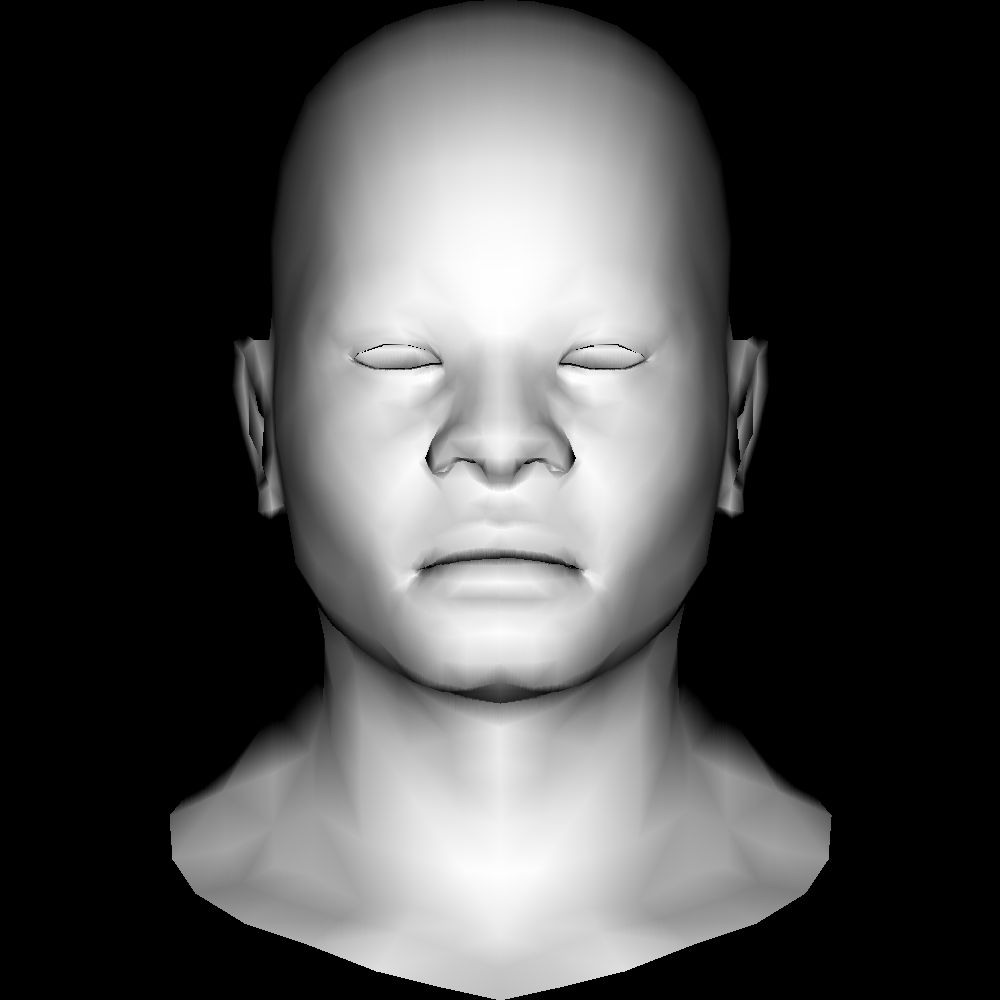
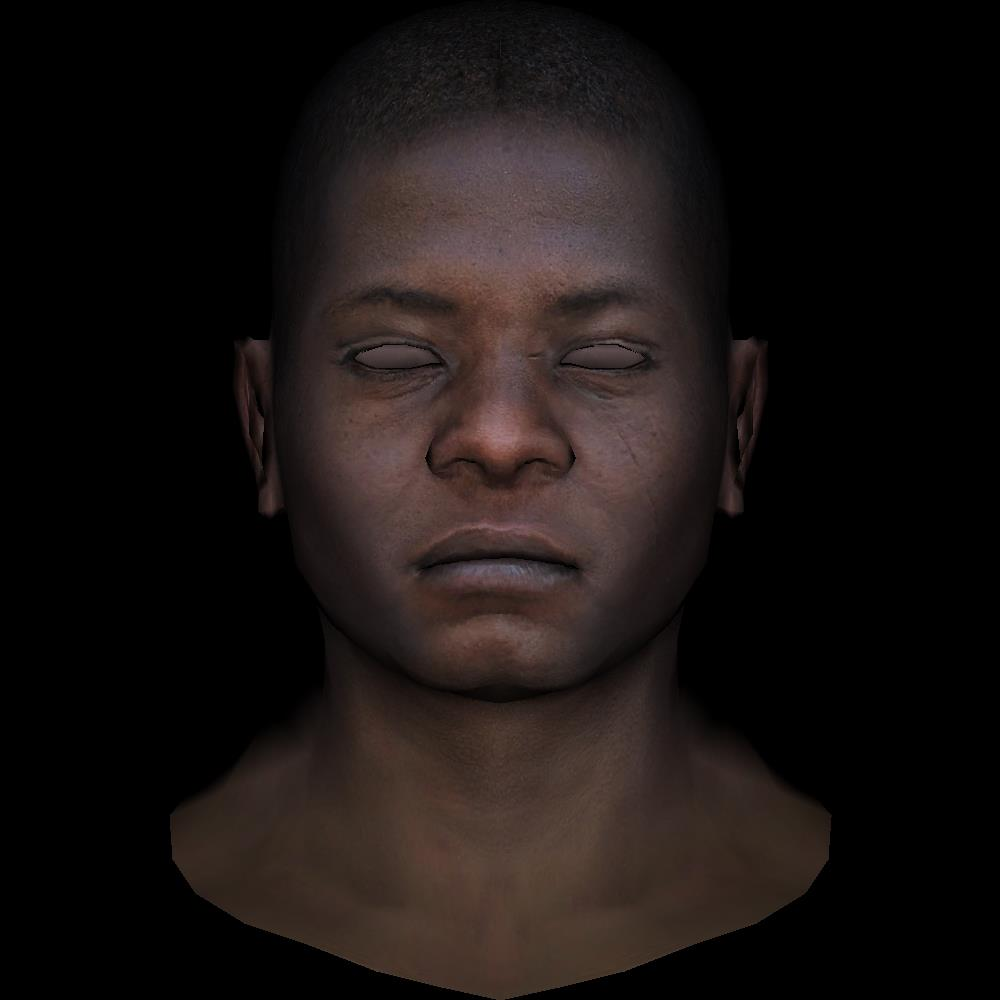
added textures

diff --git a/main.cpp b/main.cpp
@@ -1,4 +1,4 @@
-#include "tgaimage.h"
+
 #include "parser.hpp"
 
 
@@ -9,8 +9,8 @@
 
 float get_inten(d3<int> p, d3<int> p1, d3<int> p2, float inten_1, float inten_2);
 void line(int x0, int y0, int x1, int y1, TGAImage &image, TGAColor color);
-void color_triangle(d3<int> p0, d3<int> p1, d3<int> p2, TGAImage &image, float inten_0, float inten_1, float inten_2, mtrx2d<int> & z_buffer);
-void color_triangle_s(d3<int> p0, d3<int> p1, d3<int> p2, TGAImage &image, float inten_0, float inten_1,float inten_2, mtrx2d<int> & z_buffer);
+void color_triangle(d3<int> p0, d3<int> p1, d3<int> p2, TGAImage &image, float inten_0, float inten_1, float inten_2, mtrx2d<int> & z_buffer, d3<float> te0, d3<float> te1, d3<float> te2, TGAImage &text);
+void color_triangle_s(d3<int> p0, d3<int> p1, d3<int> p2, TGAImage &image, float inten_0, float inten_1,float inten_2, mtrx2d<int> & z_buffer, d3<float> te0, d3<float> te1, d3<float> te2, TGAImage &text);
 float sqrt3(int x, int y, int z);
 int round(float a);
 
@@ -25,13 +25,17 @@ const TGAColor blue   = TGAColor(0, 0,   255,   255);
 int main(int argc, char** argv) {
 	vector<d3<float> > real_coords;
 	vector<d3<float> > norm;
+	vector<d3<float> > text;
 	TGAImage image(width, height, TGAImage::RGB);
+	TGAImage text_file;
 	std::vector<d3<int> >  triangles;
 	std::vector<d3<int> >  norm_triangles;
+	std::vector<d3<int> >  text_triangles;
 
 	mtrx2d<int> z_buffer(width,height,std::numeric_limits<int>::min());
 
-	parser(real_coords, triangles, norm, norm_triangles);
+
+	parser(real_coords, triangles, norm, norm_triangles, text, text_triangles, text_file);
 
 
     vecd3<float> light_vec = vecd3<float>((float)(0.),(float)(0.),(float)(-1.));
@@ -44,6 +48,10 @@ int main(int argc, char** argv) {
 		d3<float> n_0=norm[norm_triangles[i].x-1];
 		d3<float> n_1=norm[norm_triangles[i].y-1];
 		d3<float> n_2=norm[norm_triangles[i].z-1];
+
+		d3<float> te_0=text[text_triangles[i].x-1];
+		d3<float> te_1=text[text_triangles[i].y-1];
+		d3<float> te_2=text[text_triangles[i].z-1];
 
 		vecd3<float> norm_vec = (vecd3<float>(tr_2,tr_0))^(vecd3<float>(tr_1,tr_0));
 
@@ -67,12 +75,11 @@ int main(int argc, char** argv) {
 
 
 	    if (cos_alf>0){
-	    	printf("%f %f %f\n", cos_0, cos_1, cos_2);
 	     int color_code = (int)(((cos_alf))*255);
 	     d3<int> p0(round(width*(tr_0.x+1.)/2.),round(height*(tr_0.y+1.)/2.), round(zeight*(tr_0.z+1.)/2.));
 	     d3<int> p1(round(width*(tr_1.x+1.)/2.),round(height*(tr_1.y+1.)/2.), round(zeight*(tr_1.z+1.)/2.));
 	     d3<int> p2(round(width*(tr_2.x+1.)/2.),round(height*(tr_2.y+1.)/2.), round(zeight*(tr_2.z+1.)/2.));
-		color_triangle(p0,p1,p2, image,-cos_0, -cos_1, -cos_2, z_buffer);
+		color_triangle(p0,p1,p2, image,-cos_0, -cos_1, -cos_2, z_buffer,te_0,te_1,te_2,text_file);
 	}
 	   //  color_triangle(width*(tr_0.x+1.)/2., height*(tr_0.y+1.)/2., width*(tr_1.x+1.)/2., height*(tr_1.y+1.)/2., width*(tr_2.x+1.)/2., height*(tr_2.y+1.)/2., image, TGAColor(rand()%255,rand()%255, rand()%255, 255));
 
@@ -126,7 +133,7 @@ void line(int x0, int y0, int x1, int y1, TGAImage &image, TGAColor color) {
     }
 }
 
-void color_triangle(d3<int> p0, d3<int> p1, d3<int> p2, TGAImage &image, float inten_0, float inten_1, float inten_2, mtrx2d<int> & z_buffer){
+void color_triangle(d3<int> p0, d3<int> p1, d3<int> p2, TGAImage &image, float inten_0, float inten_1, float inten_2, mtrx2d<int> & z_buffer, d3<float> te0, d3<float> te1, d3<float> te2, TGAImage &text){
 
 
 
@@ -153,22 +160,26 @@ int l_border=min(min(p0.x,p1.x),p2.x);
 if (l_border==p0.x) {
 std::swap(p0, p1);
 std::swap(inten_0, inten_1);
+std::swap(te0, te1);
 }
 
 if (l_border==p2.x) {
 std::swap(p1, p2);
 std::swap(inten_1, inten_2);
+std::swap(te1, te2);
 }
 
 
 if (r_border==p0.x) {
 std::swap(p0, p2);
 std::swap(inten_0, inten_2);
+std::swap(te0, te2);
 }
 
 if (r_border==p1.x) {
 std::swap(p1, p2);
 std::swap(inten_1, inten_2);
+std::swap(te1, te2);
 }
 
 if (p0.x==p1.x && p0.x==p2.x) return;
@@ -187,8 +198,14 @@ int cross_coord_y=(int)((x0-x1)*(float)(y2-y1)/(float)(x2-x1)+y1);
 int cross_coord_z=(int)((x0-x1)*(float)(z2-z1)/(float)(x2-x1)+z1);
 d3<int> cross_p(x0,cross_coord_y,cross_coord_z);
 float inten_cross =get_inten(cross_p, p1, p2, inten_1, inten_2);
-color_triangle_s(p0,cross_p, p2, image, inten_0,inten_cross,inten_2, z_buffer);
-color_triangle_s(p0, cross_p, p1, image, inten_0,inten_cross,inten_1, z_buffer);
+d3<float> text_cross;
+text_cross.x=get_inten(cross_p, p1, p2, te1.x, te2.x);
+text_cross.y=get_inten(cross_p, p1, p2, te1.y, te2.y);
+
+
+
+color_triangle_s(p0,cross_p, p2, image, inten_0,inten_cross,inten_2, z_buffer, te0, text_cross, te2,text);
+color_triangle_s(p0, cross_p, p1, image, inten_0,inten_cross,inten_1, z_buffer, te0, text_cross, te1,text);
 /*if (u_border==y0){
 std::swap(x0, x2);
 std::swap(y0, y2);
@@ -212,13 +229,14 @@ std::swap(y2, y1);
 }
 
 
-void color_triangle_s(d3<int> p0, d3<int> p1, d3<int> p2, TGAImage &image, float inten_0, float inten_1,float inten_2, mtrx2d<int> & z_buffer){
+void color_triangle_s(d3<int> p0, d3<int> p1, d3<int> p2, TGAImage &image, float inten_0, float inten_1,float inten_2, mtrx2d<int> & z_buffer, d3<float> te0, d3<float> te1, d3<float> te2, TGAImage &text){
 
 	//printf("%f %f %f\n", inten_0, inten_1, inten_2);
 
 	if (p0.y>p1.y) {
 		std::swap(p0, p1);
 		std::swap(inten_0, inten_1);
+		std::swap(te0, te1);
 	}
 
 
@@ -269,7 +287,15 @@ for (int t=min_v; t<=max_v; t++){
 	d3<int> p_up(t,y_u,z_limitu);
 	d3<int> p_down(t,y_b,z_limitb);
 	float inten_up =get_inten(p_up, p1, p2, inten_1, inten_2);
+	d3<float> text_up;
+	text_up.x=get_inten(p_up, p1, p2, te1.x, te2.x);
+	text_up.y=get_inten(p_up, p1, p2, te1.y, te2.y);
+
+
 	float inten_down =get_inten(p_down, p0, p2, inten_0, inten_2);
+	d3<float> text_down;
+	text_down.x=get_inten(p_down, p0, p2, te0.x, te2.x);
+	text_down.y=get_inten(p_down, p0, p2, te0.y, te2.y);
 
 	for (int k = p_down.y; k<=p_up.y; k++){
 		float Acur= ((float)(p_up.z-p_down.z))/(p_up.y-p_down.y);
@@ -277,12 +303,21 @@ for (int t=min_v; t<=max_v; t++){
 		z_cur=  Acur*k+Bcur;
 		d3<int> p_cur(t,k,z_cur);
 		float inten_cur=get_inten(p_cur, p_down, p_up, inten_down, inten_up);
+		d3<float> text_cur;
+		text_cur.x=get_inten(p_cur, p_down, p_up, text_down.x, text_up.x);
+		text_cur.y=get_inten(p_cur, p_down, p_up, text_down.y, text_up.y);
+		int x = round(text.get_width()*text_cur.x);
+		int y = round(text.get_height()*(1.-text_cur.y));
+		TGAColor color1=text.get(x,y);
+
 		int color_code = (int)(((inten_cur))*255);
 		color_code = std::max(std::min(color_code, 255), 0);
 		//color_code=abs(color_code) % 255;
-		TGAColor color(color_code,color_code, color_code, 255);
+		//TGAColor color(color_code,color_code, color_code, 255);
+		inten_cur = std::max(std::min(inten_cur,1.0f), 0.0f);
+		TGAColor color2(round(((int)color1.r)*inten_cur),round(((int)color1.g)*inten_cur),round(((int)color1.b)*inten_cur),255);
 		if (z_buffer(t,k) < z_cur){
-		 image.set(t, k, color);
+		 image.set(t, k, color2);
 		 z_buffer(t,k)=z_cur;
 		}
 	}

diff --git a/parser.cpp b/parser.cpp
@@ -7,11 +7,12 @@
 
 #include "parser.hpp"
 
-void parser(std::vector<d3<float> >  & coords, std::vector<d3<int> >  & triangles, std::vector<d3<float> > & norm, std::vector<d3<int> >  & norm_triangles){
+void parser(std::vector<d3<float> >  & coords, std::vector<d3<int> >  & triangles, std::vector<d3<float> > & norm, std::vector<d3<int> >  & norm_triangles, std::vector<d3<float> > & text, std::vector<d3<int> >  & text_triangles, TGAImage & textures){
 	  std::ifstream myfile;
 	  unsigned int num=0;
 	  float tempx, tempy,tempz;
-	  int tempa, tempb,tempc, tempa1, tempb1, tempc1;
+	  int tempa, tempb,tempc, tempa1, tempb1, tempc1, tempa2, tempb2, tempc2;
+	  textures.read_tga_file("african_head_diffuse.tga");
 	  myfile.open ("african_head.obj");
 	  std::string line;
 	  while (std::getline(myfile, line))
@@ -32,14 +33,22 @@ void parser(std::vector<d3<float> >  & coords, std::vector<d3<int> >  & triangle
 		  norm.push_back(d3<float>(tempx,tempy,tempz));
 	  }
 
+	  if (line[0]=='v' && line[1]=='t'){
+		  line=line.substr(2);
+		  std::istringstream  iss (line);
+		  iss>>tempx>>tempy>>tempz;
+		  text.push_back(d3<float>(tempx,tempy,tempz));
+	  }
+
 
 
 	  if (line[0]=='f' && line[1]==' '){
 		  line=line.substr(2);
 		  //std::cout<<line<<std::endl;
-		  std::sscanf (line.c_str(),"%d/%*d/%d %d/%*d/%d %d/%*d/%d",&tempa,&tempa1,&tempb,&tempb1,&tempc,&tempc1);
+		  std::sscanf (line.c_str(),"%d/%d/%d %d/%d/%d %d/%d/%d",&tempa,&tempa2,&tempa1,&tempb,&tempb2, &tempb1,&tempc,&tempc2,&tempc1);
 		  triangles.push_back(d3<int>(tempa, tempb, tempc));
 		  norm_triangles.push_back(d3<int>(tempa1, tempb1, tempc1));
+		  text_triangles.push_back(d3<int>(tempa2, tempb2, tempc2));
 	  }
 
 	  }

diff --git a/parser.hpp b/parser.hpp
@@ -8,6 +8,7 @@
 #ifndef PARSER_HPP_
 #define PARSER_HPP_
 
+#include "tgaimage.h"
 #include <iostream>
 #include <fstream>
 #include<vector>
@@ -109,7 +110,7 @@ void normalize(){
 
 
 
-void parser(std::vector<d3<float> >  & coords, std::vector<d3<int> >  & triangles, std::vector<d3<float> > & norm, std::vector<d3<int> >  & norm_triangles);
+void parser(std::vector<d3<float> >  & coords, std::vector<d3<int> >  & triangles, std::vector<d3<float> > & norm, std::vector<d3<int> >  & norm_triangles, std::vector<d3<float> > & text, std::vector<d3<int> >  & text_triangles, TGAImage & textures);
 float max(float a, float b);
 float min(float a, float b);
 
